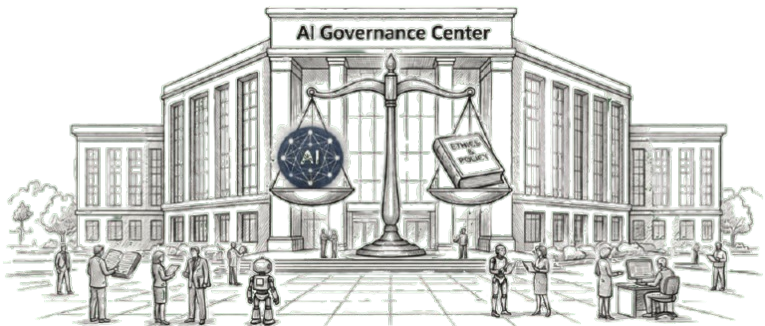
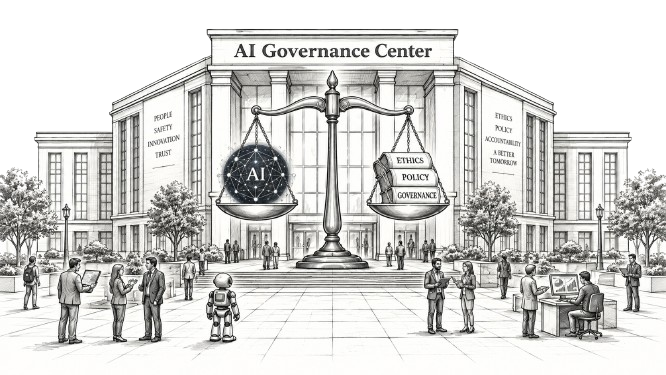
update Consultation&Image

diff --git a/components/ConsultationBooking.tsx b/components/ConsultationBooking.tsx
@@ -288,7 +288,7 @@ export default function ConsultationBooking() {
               <div>
                 <PhoneField name="phone" label="Phone Number" required />
               </div>
-              <div>
+              <div className="sm:col-span-2">
                 <label className="mb-1.5 block text-sm font-semibold text-ink">Service of Interest</label>
                 <select
                   name="service"
